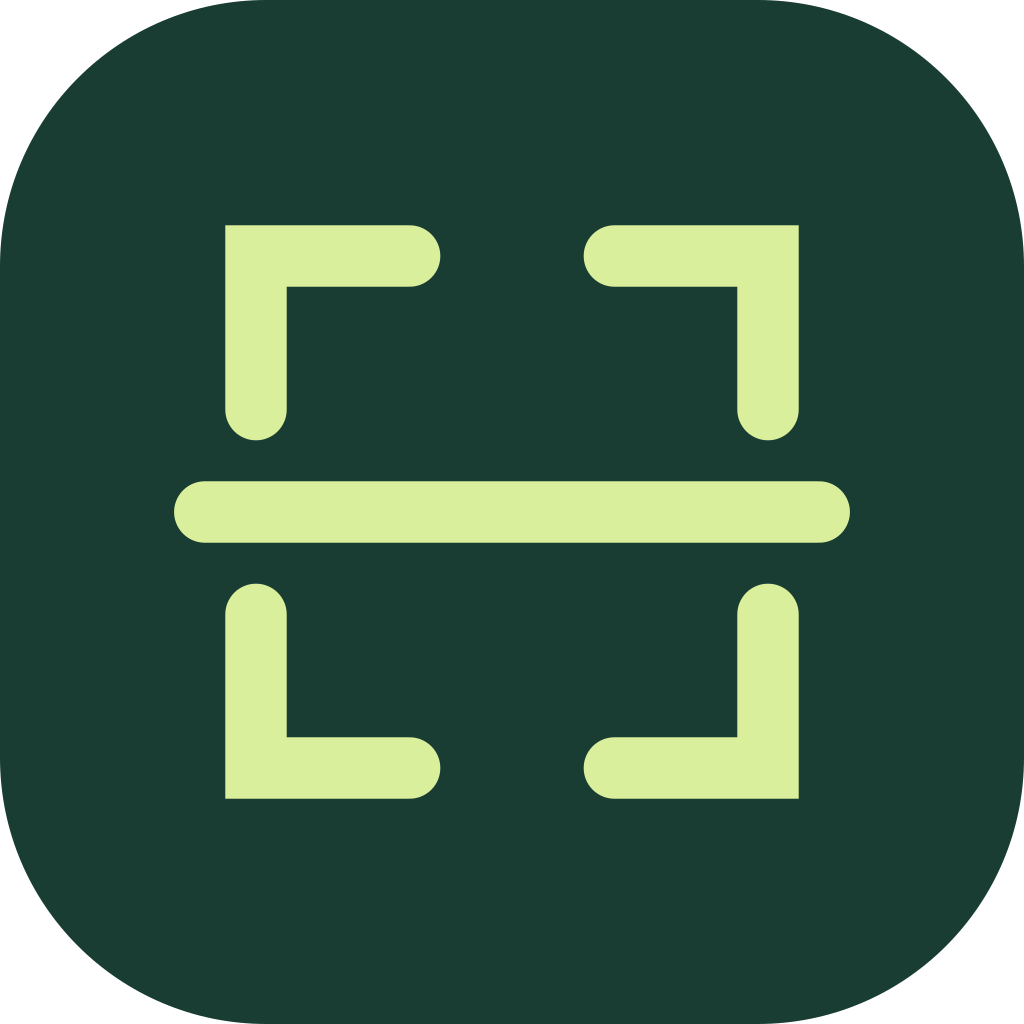
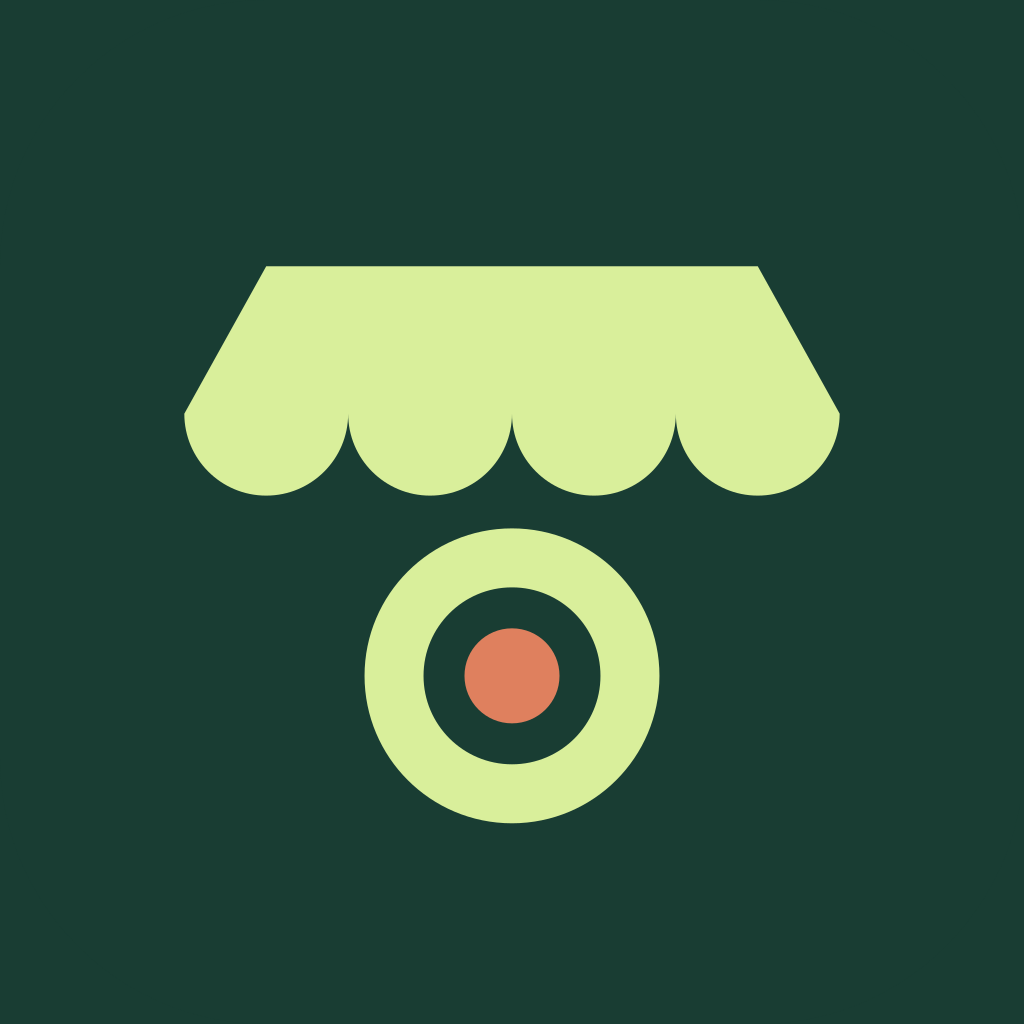
new version

diff --git a/mobile/App.tsx b/mobile/App.tsx
@@ -778,6 +778,11 @@ function SellerApp() {
                 />
               </>
             )}
+            <Text style={[s.tiny, { textAlign: "center", marginTop: 20 }]}>
+              Google or Apple creates your own store. Connect your Square
+              account to accept payments. Existing sellers can still use their
+              password.
+            </Text>
           </ScrollView>
         </KeyboardAvoidingView>
       </SafeAreaView>
@@ -790,12 +795,14 @@ function SellerApp() {
       >
         <View style={s.topBar}>
           <View style={s.brand}>
-            <View style={s.brandMark}>
-              <ScanLine size={22} color={C.paper} />
-            </View>
+            <Image
+              source={require("./assets/icon.png")}
+              style={s.brandMark}
+              accessibilityLabel="Snap-a-Store logo"
+            />
             <Text style={s.brandText}>
               snap<Text style={s.brandA}>a</Text>store
-              <Text style={{ color: C.orange }}>·</Text>
+              <Text style={{ color: C.orange }}>.</Text>
             </Text>
           </View>
           <Pressable
@@ -2103,7 +2110,12 @@ const s = StyleSheet.create({
     alignItems: "center",
     justifyContent: "center",
   },
-  avatarText: { fontFamily: F.serif, fontSize: 18, lineHeight: 22, color: C.green },
+  avatarText: {
+    fontFamily: F.serif,
+    fontSize: 18,
+    lineHeight: 22,
+    color: C.green,
+  },
   scroll: { padding: 20, paddingTop: 24, paddingBottom: 40 },
   greetingRow: { gap: 14, marginBottom: 14 },
   eyebrow: {
@@ -2785,7 +2797,12 @@ const s = StyleSheet.create({
     paddingVertical: 10,
     minHeight: 50,
   },
-  fieldInput: { fontFamily: F.regular, fontSize: 17, lineHeight: 22, minWidth: 0 },
+  fieldInput: {
+    fontFamily: F.regular,
+    fontSize: 17,
+    lineHeight: 22,
+    minWidth: 0,
+  },
   dangerCard: { marginTop: 14, borderColor: "#edc8b8" },
   dangerBody: {
     fontFamily: F.regular,

diff --git a/components/brand.tsx b/components/brand.tsx
@@ -1,5 +1,4 @@
 import {
-  ScanLine,
   Coffee,
   LampDesk,
   BookOpen,
@@ -9,9 +8,13 @@ import {
 } from "lucide-react";
 export function Brand({ light = false }: { light?: boolean }) {
   return (
-    <a className={`brand ${light ? "light" : ""}`} href="/">
+    <a
+      className={`brand ${light ? "light" : ""}`}
+      href="/"
+      aria-label="Snap-a-Store home"
+    >
       <span className="brand-icon">
-        <ScanLine size={22} />
+        <img src="/icon.svg" alt="" width={37} height={37} />
       </span>
       snap<span className="brand-dot">a</span>store
       <span className="brand-period">.</span>

diff --git a/app/globals.css b/app/globals.css
@@ -109,6 +109,11 @@ button {
   border-radius: 11px;
   margin-right: 10px;
 }
+.brand-icon img {
+  width: 100%;
+  height: 100%;
+  display: block;
+}
 .brand-dot {
   font-size: 19px;
   font-weight: 450;
@@ -338,9 +343,6 @@ footer .brand-icon {
   width: 28px;
   height: 28px;
   border-radius: 8px;
-}
-footer .brand-icon svg {
-  width: 18px;
 }
 footer p,
 footer > span {
